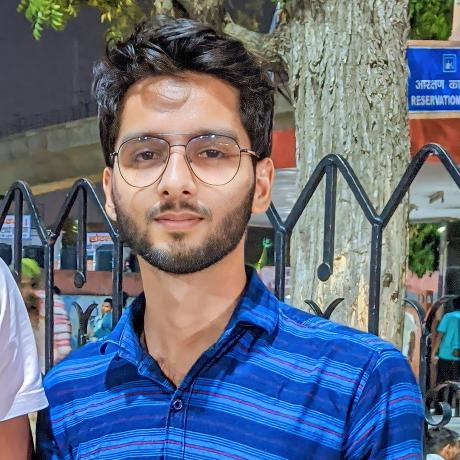
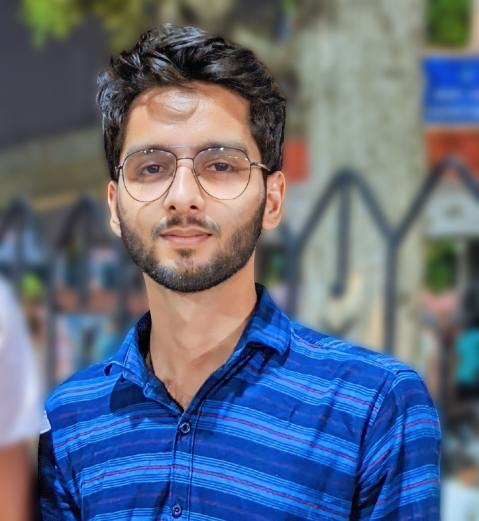
Updating code to make Website Live

diff --git a/portfolio/src/main/resources/templates/fragments/projects.html b/portfolio/src/main/resources/templates/fragments/projects.html
@@ -12,58 +12,53 @@
             <div class="projects-container">
                 <div class="project-card">
                     <div class="project-image">
-                        <img src="/images/thumbnail6.jpg" alt="udemy">
+                        <img src="/images/protfolioImage.png" alt="Devendra Portfolio">
                         <div class="project-overlay"></div>
                         <div class="project-tags">
                             <span class="project-tag">Spring Boot</span>
-                            <span class="project-tag">Spring Security</span>
-                            <span class="project-tag">Data JPA</span>
-                            <span class="project-tag">MySQL</span>
-                            <span class="project-tag">AWS</span>
-                            <span class="project-tag">Mongodb</span>
+                            <span class="project-tag">HTML</span>
+                            <span class="project-tag">Git</span>
+                            <span class="project-tag">Docker</span>
+                            <span class="project-tag">IntelliJ IDE</span>
+                        </div>
+                    </div>
+                    <div class="project-content">
+                        <h3 class="project-title">Portfolio WebSite with Spring Boot</h3>
+                        <p class="project-description">
+                            In this Project, i have created a Personal portfolio website using SpringBoot for Personal Use.
+                        </p>
+                        <div class="project-links">
+                            <a href="https://github.com/ZenithDev1/Personal_Portfolio_SpringBoot.git" class="project-link" target="_blank">
+                                <i class="fab fa-github"></i> View Code
+                            </a>
+                            <a href="https://github.com/ZenithDev1/Personal_Portfolio_SpringBoot.git" class="project-link">
+                                Y'are on Live Page <i class="fas fa-arrow-right"></i>
+                            </a>
+                        </div>
+                    </div>
+                </div>
+
+                <div class="project-card">
+                    <div class="project-image">
+                        <img src="/images/secondProject.png" alt="School management">
+                        <div class="project-overlay"></div>
+                        <div class="project-tags">
+                            <span class="project-tag">Spring Boot</span>
                             <span class="project-tag">Postman</span>
-                        </div>
-                    </div>
-                    <div class="project-content">
-                        <h3 class="project-title">Build REST APIs with Spring and Spring Boot</h3>
-                        <p class="project-description">
-                            In this course, you will learn how to create production grade REST API that connects to the MySQL database through JPA/Hibernate
-                        </p>
-                        <div class="project-links">
-                            <a href="https://github.com/scbushan05/expense-manager-api" class="project-link" target="_blank">
-                                <i class="fab fa-github"></i> View Code
-                            </a>
-                            <a href="https://www.udemy.com/course/build-production-ready-rest-api-with-spring-boot-expense-manager-api/" class="project-link">
-                                Join course <i class="fas fa-arrow-right"></i>
-                            </a>
-                        </div>
-                    </div>
-                </div>
-
-                <div class="project-card">
-                    <div class="project-image">
-                        <img src="/images/thumbnail1.jpg" alt="Ambulance Navigation System">
-                        <div class="project-overlay"></div>
-                        <div class="project-tags">
-                            <span class="project-tag">Spring Boot</span>
-                            <span class="project-tag">React</span>
-                            <span class="project-tag">Tailwind CSS</span>
+                            <span class="project-tag">Rest API's</span>
                             <span class="project-tag">MySQL</span>
-                            <span class="project-tag">Clerk</span>
-                            <span class="project-tag">Full Stack</span>
+                            <span class="project-tag">Git</span>
+                            <span class="project-tag">Java</span>
                         </div>
                     </div>
                     <div class="project-content">
-                        <h3 class="project-title">AI Background Remover</h3>
+                        <h3 class="project-title">School Management System</h3>
                         <p class="project-description">
-                            In this video, learn how to build a powerful AI-powered Background Remover SaaS Application using React, Spring Boot, and Razorpay integration.
+                            In this Project, learn how to build REST-API's using Spring Boot, At the end of 2025 I'll add Microservices and Razorpay Fee Payment.
                         </p>
                         <div class="project-links">
-                            <a href="https://topmate.io/scbushan05/1532304" class="project-link" target="_blank">
+                            <a href="https://github.com/ZenithDev1/SpringBoot_APIs.git" class="project-link" target="_blank">
                                 <i class="fab fa-github"></i> View Code
-                            </a>
-                            <a href="https://youtu.be/jnY9PWhmQSc" class="project-link">
-                                Watch Video <i class="fas fa-arrow-right"></i>
                             </a>
                         </div>
                     </div>
@@ -71,121 +66,30 @@
 
                 <div class="project-card">
                     <div class="project-image">
-                        <img src="/images/thumbnail2.jpg" alt="Ener Tracker">
+                        <img src="/images/commonBackendSystem.png" alt="Backend for CommerceWebSite">
                         <div class="project-overlay"></div>
                         <div class="project-tags">
                             <span class="project-tag">Spring Boot</span>
-                            <span class="project-tag">React</span>
-                            <span class="project-tag">Bootstrap</span>
-                            <span class="project-tag">MongoDB</span>
-                            <span class="project-tag">AWS</span>
-                            <span class="project-tag">IntelliJ IDEA</span>
-                            <span class="project-tag">Full Stack</span>
-                        </div>
-                    </div>
-                    <div class="project-content">
-                        <h3 class="project-title">Online Food Delivery Application</h3>
-                        <p class="project-description">
-                            In this video, we will build full stack online food delivery application for a small restruant business with admin panel that manages the food and orders.
-                        </p>
-                        <div class="project-links">
-                            <a href="https://topmate.io/scbushan05/1465159" class="project-link" target="_blank">
-                                <i class="fab fa-github"></i> View Code
-                            </a>
-                            <a href="https://youtu.be/7eZtiuhgIgc" class="project-link">
-                                Watch video <i class="fas fa-arrow-right"></i>
-                            </a>
-                        </div>
-                    </div>
-                </div>
-
-                <div class="project-card">
-                    <div class="project-image">
-                        <img src="/images/thumbnail3.jpg" alt="Freelance retail billing software">
-                        <div class="project-overlay"></div>
-                        <div class="project-tags">
-                            <span class="project-tag">Spring Boot</span>
-                            <span class="project-tag">React</span>
-                            <span class="project-tag">Bootstrap</span>
+                            <span class="project-tag">Exception Handling</span>
                             <span class="project-tag">MySQL</span>
-                            <span class="project-tag">AWS</span>
-                            <span class="project-tag">IntelliJ IDEA</span>
-                            <span class="project-tag">Full Stack</span>
-                        </div>
-                    </div>
-                    <div class="project-content">
-                        <h3 class="project-title">Freelance Retail Billing Software</h3>
-                        <p class="project-description">
-                            In this video, we will build a freelance retail product for one of the electronics business that automate their billing system.
-                        </p>
-                        <div class="project-links">
-                            <a href="https://topmate.io/scbushan05/1498190" class="project-link" target="_blank">
-                                <i class="fab fa-github"></i> View Code
-                            </a>
-                            <a href="https://youtu.be/_UNE39gZrV4" class="project-link">
-                                Case Study <i class="fas fa-arrow-right"></i>
-                            </a>
-                        </div>
-                    </div>
-                </div>
-
-                <div class="project-card">
-                    <div class="project-image">
-                        <img src="/images/thumbnail4.jpg" alt="PitchPro">
-                        <div class="project-overlay"></div>
-                        <div class="project-tags">
-                            <span class="project-tag">Spring Boot</span>
-                            <span class="project-tag">Spring Security</span>
-                            <span class="project-tag">React</span>
-                            <span class="project-tag">Bootstrap</span>
-                            <span class="project-tag">MySQL</span>
+                            <span class="project-tag">PostMan</span>
+                            <span class="project-tag">Git</span>
                             <span class="project-tag">IntelliJ IDEA</span>
                         </div>
                     </div>
                     <div class="project-content">
-                        <h3 class="project-title">Authify by Spring Security</h3>
+                        <h3 class="project-title">Backend System for Ecommerce sites</h3>
                         <p class="project-description">
-                            In this video, learn how we can secure the REST APIs using Spring security and JWT token that connects to the MySQL database.
+                            In this Project, I have created a ready to use, OPEN-Source BACKEND-SYSTEM for all commerece plattform.
                         </p>
                         <div class="project-links">
-                            <a href="https://topmate.io/scbushan05/1517072" class="project-link" target="_blank">
+                            <a href="https://github.com/ZenithDev1/SpringBoot-Demonstration.git" class="project-link" target="_blank">
                                 <i class="fab fa-github"></i> View Code
-                            </a>
-                            <a href="https://youtu.be/ewGbjpFmRbw" class="project-link">
-                                Case Study <i class="fas fa-arrow-right"></i>
                             </a>
                         </div>
                     </div>
                 </div>
-
-                <div class="project-card">
-                    <div class="project-image">
-                        <img src="/images/thumbnail5.jpg" alt="todoapp">
-                        <div class="project-overlay"></div>
-                        <div class="project-tags">
-                            <span class="project-tag">Spring Boot</span>
-                            <span class="project-tag">Thymeleaf</span>
-                            <span class="project-tag">Bootstrap</span>
-                            <span class="project-tag">MySQL</span>
-                            <span class="project-tag">IntelliJ IDEA</span>
-                        </div>
-                    </div>
-                    <div class="project-content">
-                        <h3 class="project-title">Spring Boot - Todo List</h3>
-                        <p class="project-description">
-                            In this video, you will learn how to create simple yet powerful todo application with beautiful UI design.
-                        </p>
-                        <div class="project-links">
-                            <a href="https://topmate.io/scbushan05/1557034" class="project-link" target="_blank">
-                                <i class="fab fa-github"></i> View Code
-                            </a>
-                            <a href="https://youtu.be/_H5mqb40Yro" class="project-link">
-                                Case Study <i class="fas fa-arrow-right"></i>
-                            </a>
-                        </div>
-                    </div>
                 </div>
-
             </div>
         </div>
     </section>

diff --git a/portfolio/src/main/resources/templates/fragments/about.html b/portfolio/src/main/resources/templates/fragments/about.html
@@ -12,16 +12,16 @@
             <div class="about-container">
                 <div class="about-content">
                     <div class="about-tagline">My Background</div>
-                    <h3 class="about-heading">Developer by Profession, Teacher by Passion.</h3>
+                    <h3 class="about-heading">Developer by Profession, Engineer by Passion.</h3>
                     <p class="about-text">
-                        I'm Devendra Kumar — a passionate software developer who loves solving complex real-world problems through clean, efficient code. With hands-on experience in building backend applications using technologies like Java, Spring Boot, and MySQL.
+                        I'm Devendra Kumar — a passionate software engineer who loves solving complex real-world problems through clean, efficient code. With hands-on experience in building backend applications using technologies like Java, Spring Boot, and MySQL.
                     </p>
-                    <p class="about-text">
-                        While development is my profession, teaching is my true passion, I’ve helped Many of students gain practical knowledge in programming. My mission is to make learning approachable for everyone, whether you're just starting out or looking to upskill.
-                    </p>
-                    <p class="about-text">
-                        As a mentor and guide aspring Boot technology, I’ve also supported numerous learners through My College's Programming Club, offering programing guidance, project mentorship. I believe in empowering others through knowledge.
-                    </p>
+                    <!--<p class="about-text">
+                        While development is my profession, Coding is my true passion, I’ve helped Many of Juniors gain practical knowledge in programming. My mission is to make learning approachable for everyone, whether you're just starting out or looking to upskill.
+                    </p>-->
+                    <!--<p class="about-text">
+                        As a mentor and guide spring Boot technology, I’ve also supported numerous learners through My College's Programming Club, offering programing guidance, project mentorship. I believe in empowering others through knowledge.
+                    </p>-->
                     <!-- Keep rest of the content unchanged -->
                     <div class="skills-container">
                         <div class="skill-item">

diff --git a/portfolio/src/main/resources/templates/fragments/hero.html b/portfolio/src/main/resources/templates/fragments/hero.html
@@ -38,7 +38,7 @@
             <div class="hero-visual">
                 <div class="hero-visual-inner">
                     <div class="hero-visual-frame">
-                        <img src="/images/devendraProfile.jpeg" alt="Profile" style="width: 90%; height: 90%; object-fit: cover; border-radius: 15px;">
+                        <img src="/images/devendraProfile.jpg" alt="Profile" style="width: 90%; height: 90%; object-fit: cover; border-radius: 15px;">
                     </div>
                     <div class="hero-visual-frame"></div>
                     <div class="hero-visual-frame"></div>
@@ -57,8 +57,8 @@
                         <i class="fa-solid fa-chalkboard-user"></i>
                     </div>
                     <div class="hero-stats-text">
-                        <div class="hero-stats-label">Mentor</div>
-                        <div class="hero-stats-value">SpringBoot</div>
+                        <div class="hero-stats-label">Backend</div>
+                        <div class="hero-stats-value">Engineer</div>
                     </div>
                 </div>
                 <div class="hero-stats stats-3">

diff --git a/portfolio/src/main/resources/templates/fragments/contact.html b/portfolio/src/main/resources/templates/fragments/contact.html
@@ -40,7 +40,7 @@
                             </div>
                             <div class="contact-link-text">
                                 <span class="contact-link-label">LinkedIn</span>
-                                <span class="contact-link-value">zenithDev</span>
+                                <span class="contact-link-value">zenithDev1</span>
                             </div>
                         </a>
                     </div>
